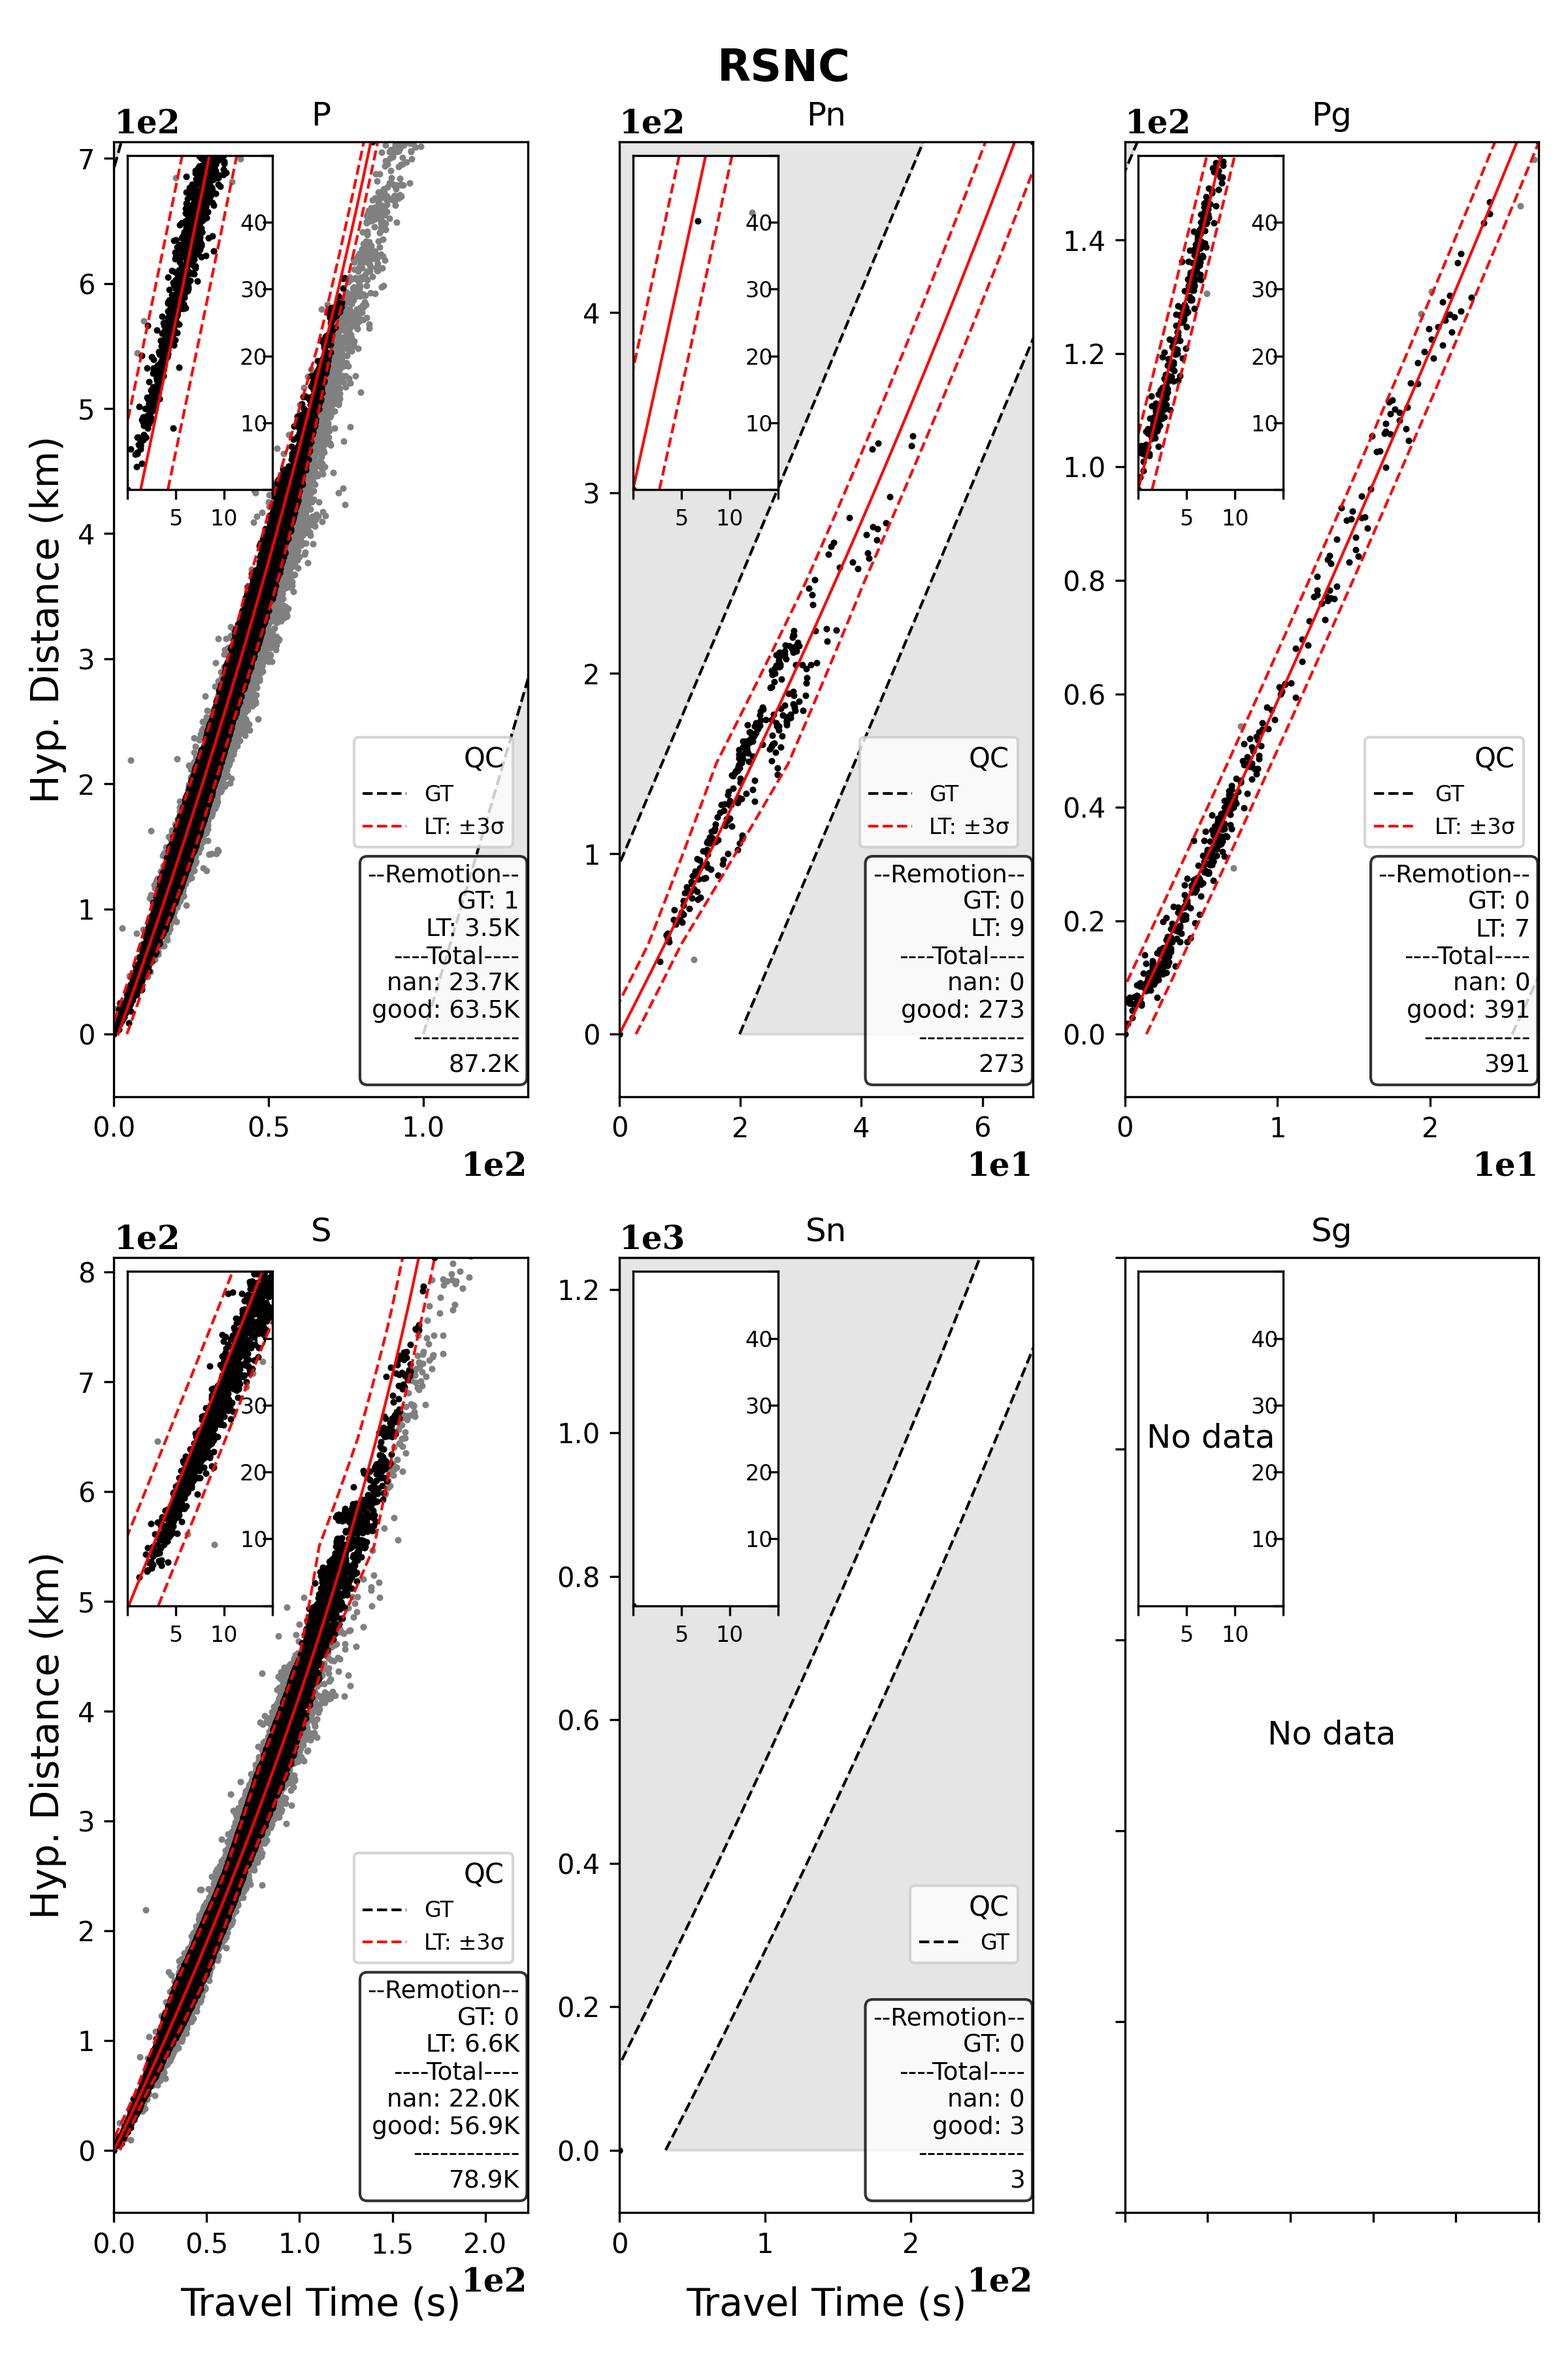
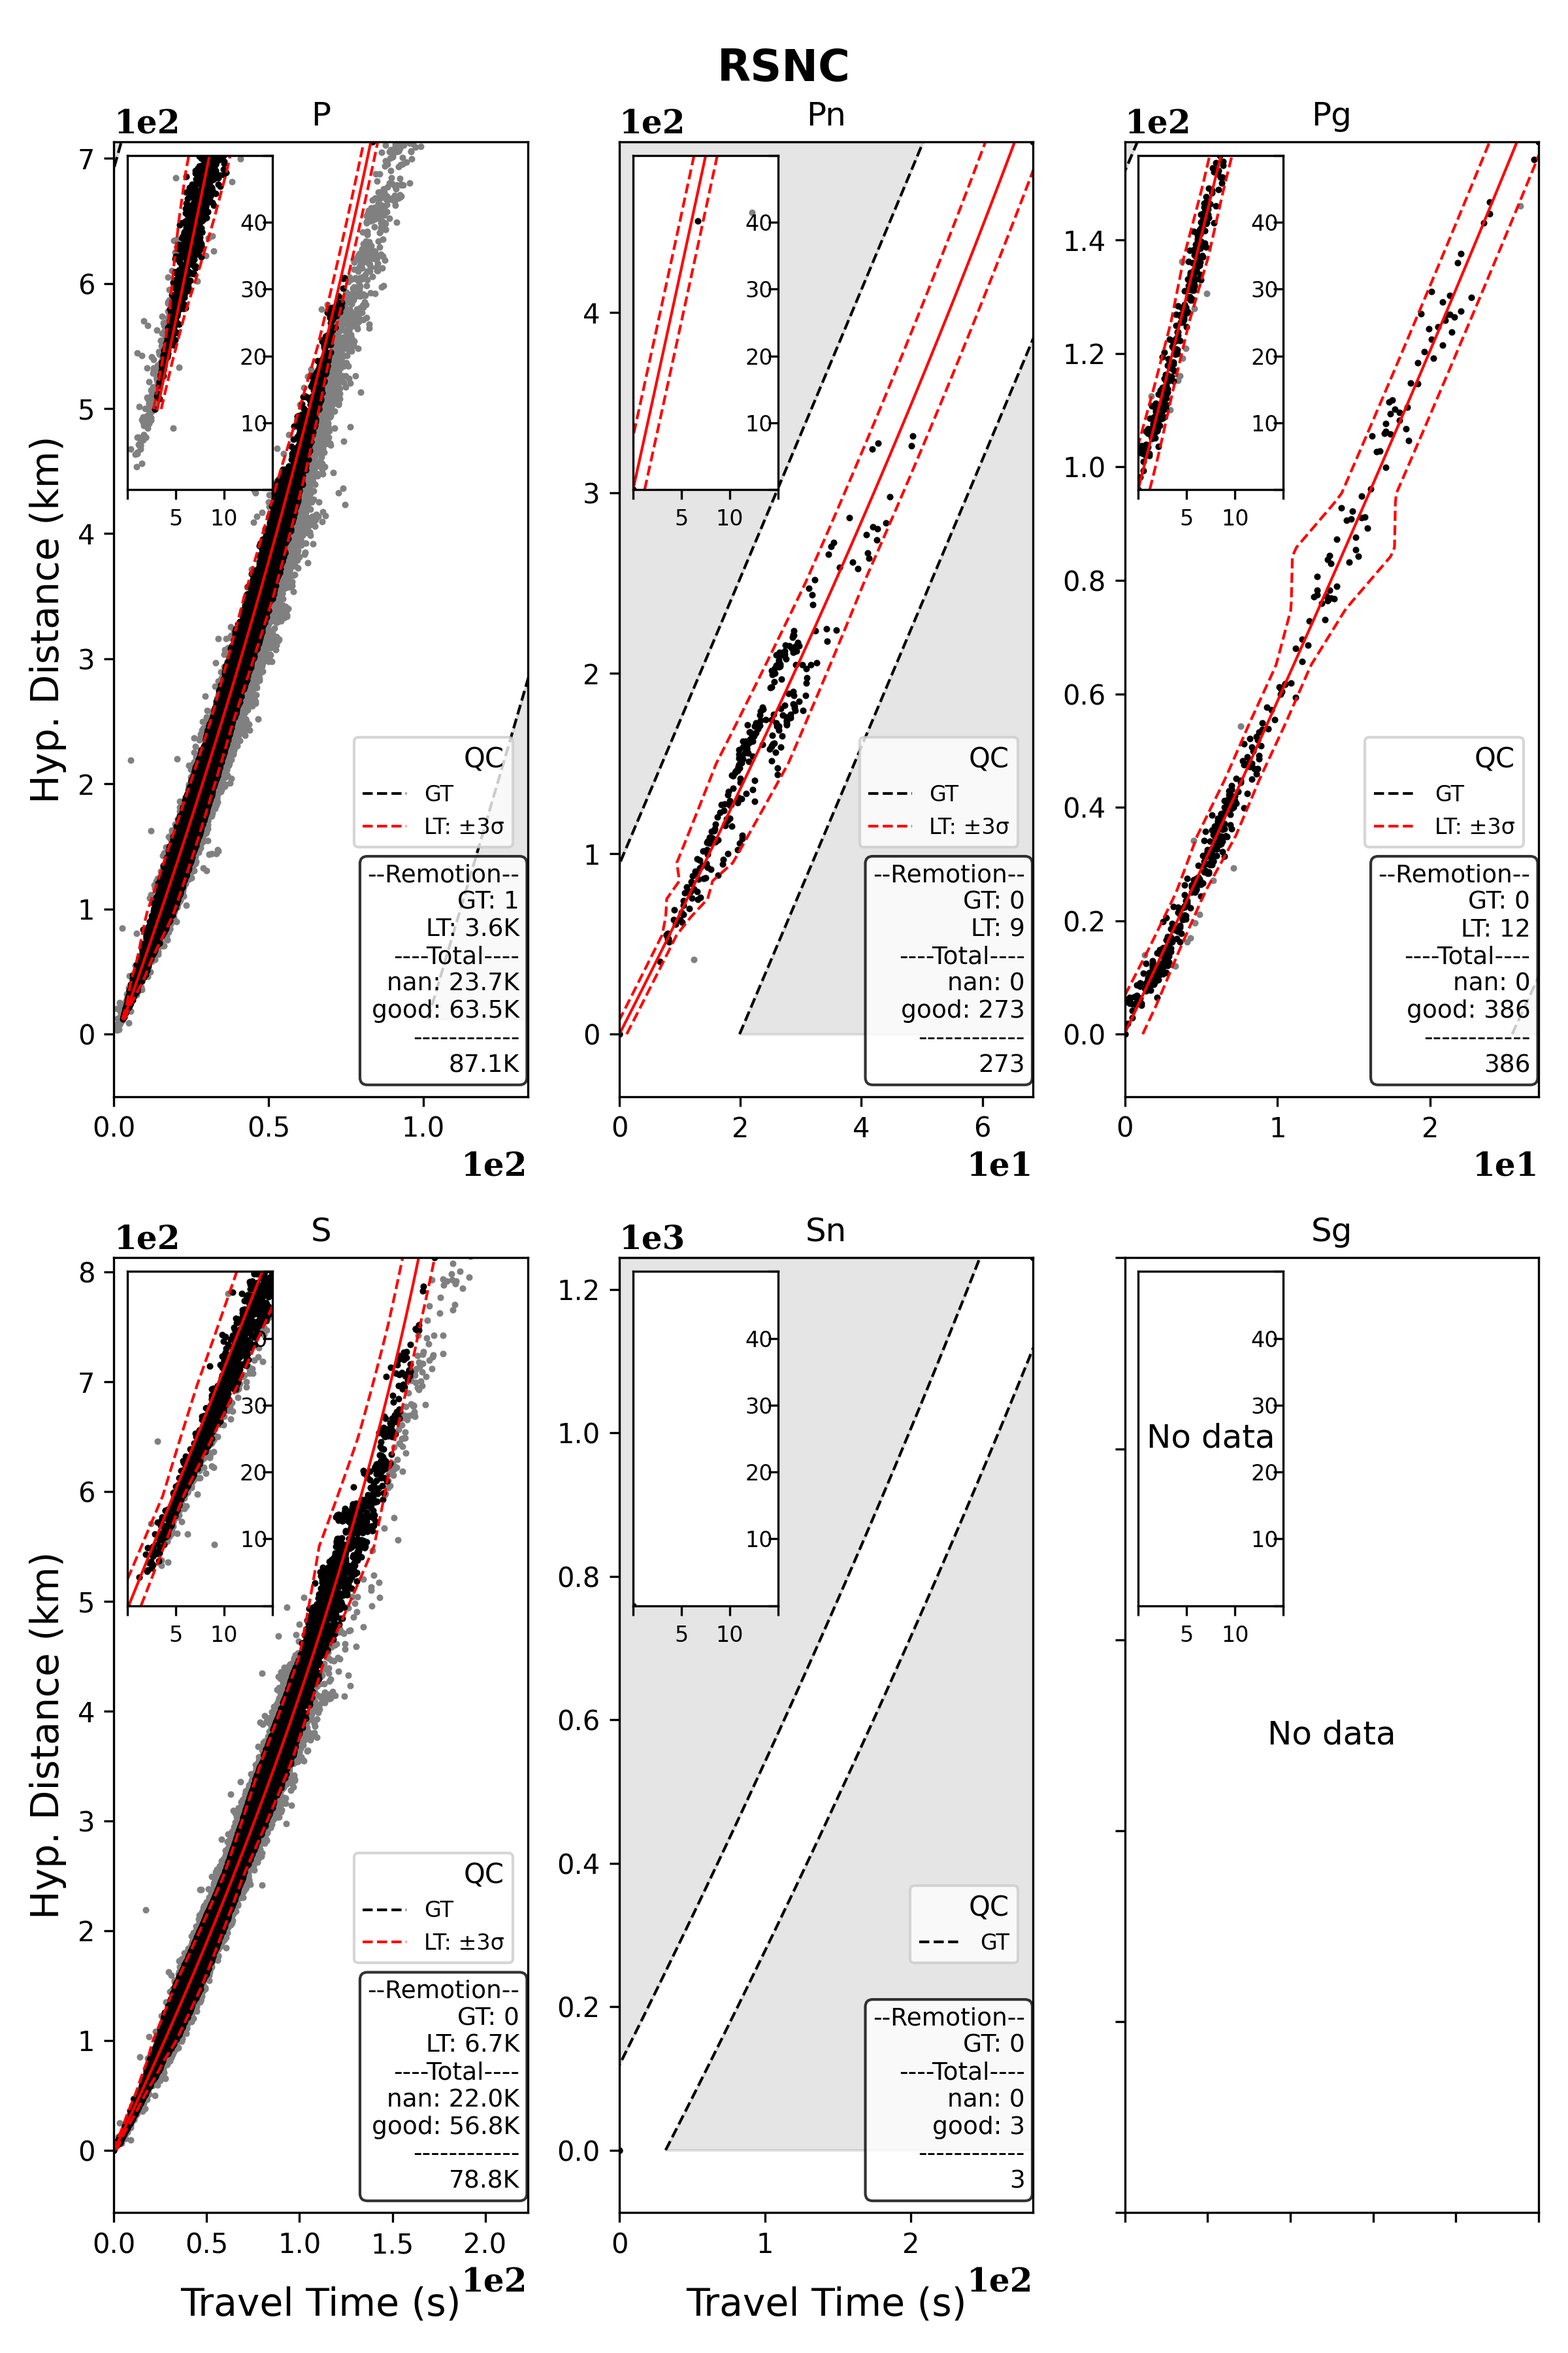
phase_trend

diff --git a/utdquake/qc/phase_trend.py b/utdquake/qc/phase_trend.py
@@ -364,10 +364,12 @@ class PhaseTrendModel:
         x_min, x_max = x.min(), x.max()
 
         # build distance edges
-        edges_100 = np.arange(0, 1000 + 100, 100)
+        edges_10 = np.arange(0, min(100, x_max) + 10, 10)
+        edges_100 = np.arange(100, min(1000, x_max) + 100, 100)
         edges_1000 = np.arange(1000, x_max + 1000, 1000)
 
         edges = np.unique(np.concatenate([
+                                            edges_10,   
                                           edges_100, 
                                           edges_1000]))
         edges = edges[edges <= x_max]

diff --git a/scripts/qc/picks/qc_picks_trend.py b/scripts/qc/picks/qc_picks_trend.py
@@ -29,7 +29,7 @@ for network in networks:
     bd_df = df[~df["resource_id"].isin(gd_df["resource_id"])]
 
 
-    save_path = f"/groups/igonin/ecastillo/utdquake/scripts/qc/picks/{network}.png"
+    save_path = f"/groups/igonin/ecastillo/utdquake/scripts/qc/picks/plots/{network}.png"
     plot_travel_time_qc(gd_df,bd_df,
                         network,
                         save_path=save_path, 
